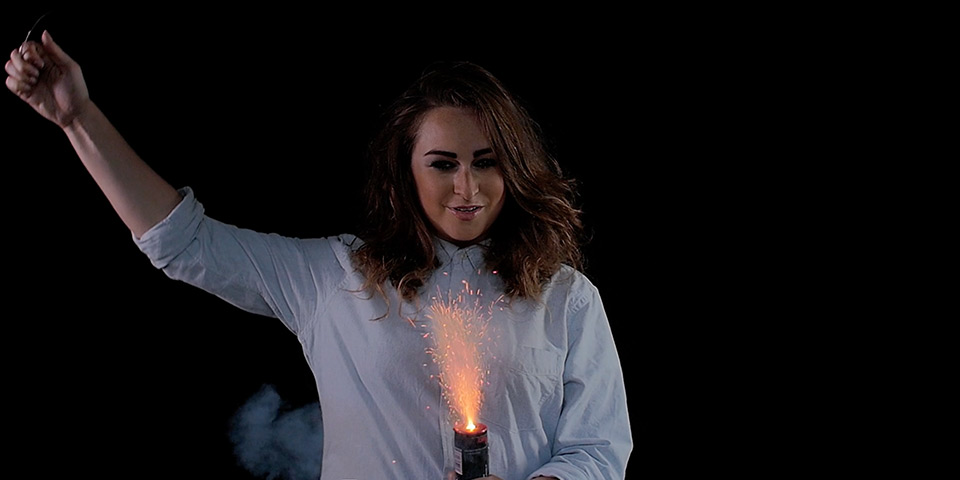
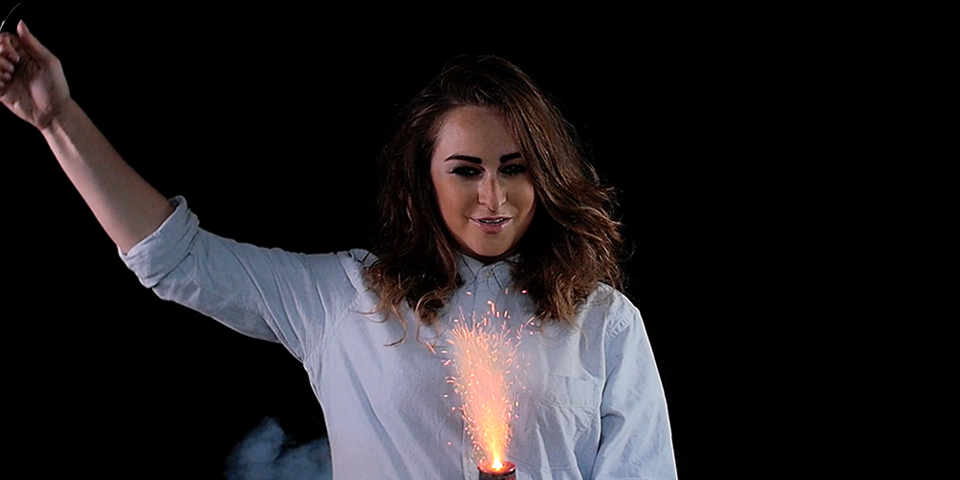
About page

Changed region(s): [[0.0, 0.0312, 0.7188, 1.0]]

diff --git a/wp-content/themes/tilt-site/page-about.php b/wp-content/themes/tilt-site/page-about.php
@@ -89,13 +89,13 @@ get_header(); ?>
 	<div class="group-container">
 		<div class="group group--left">
 			<div class="module module--2-1">
-				<div class="ratio" style="background-image: url('<?php echo get_template_directory_uri(); ?>/images/about/code_dbp.jpg')"></div>
+				<div class="ratio" style="background-image: url('<?php echo get_template_directory_uri(); ?>/images/about/backshot_pbs.jpg')"></div>
 			</div>
 		</div>
 		
 		<div class="group group--right">
 			<div class="module module--2-1">
-				<div class="ratio" style="background-image: url('<?php echo get_template_directory_uri(); ?>/images/about/hawaiian_shirt.jpg')"></div>
+				<div class="ratio" style="background-image: url('<?php echo get_template_directory_uri(); ?>/images/about/inkshot.jpg')"></div>
 			</div>
 		</div>
 	
